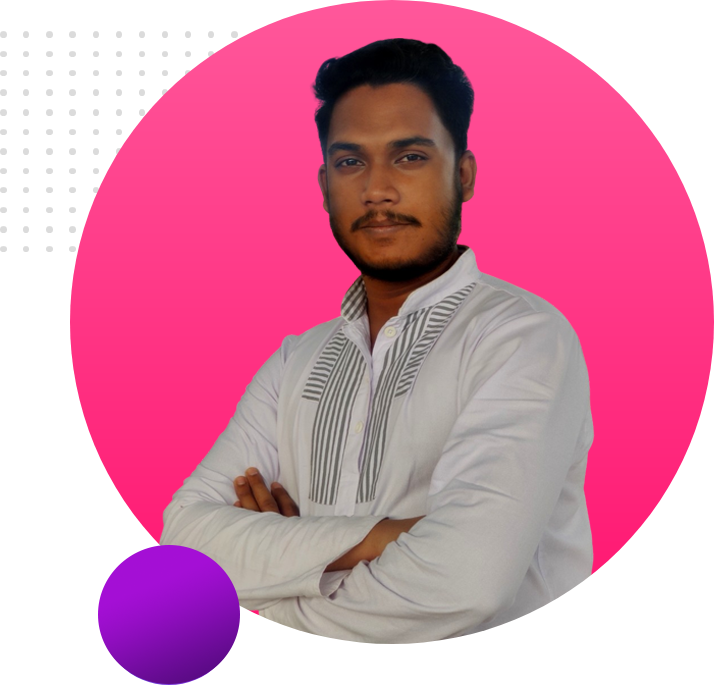
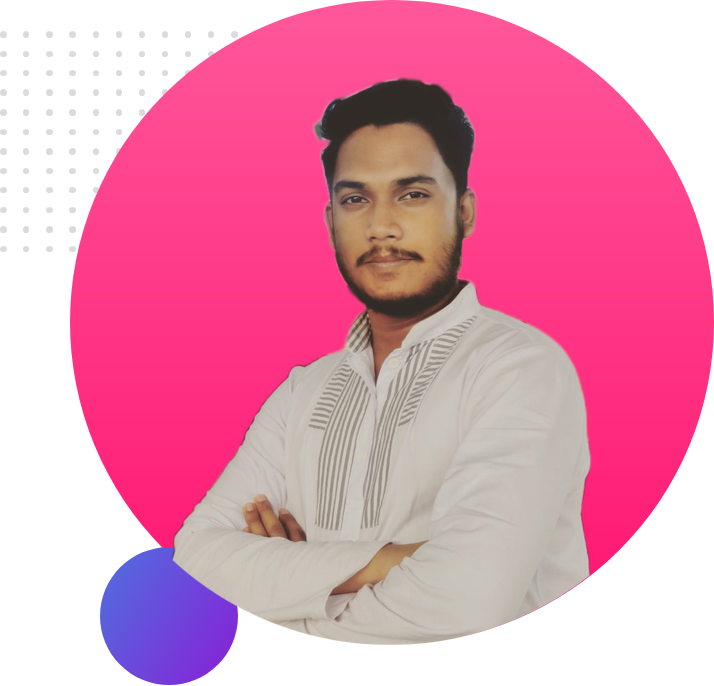
Added all the html and css style

Changed region(s): [[0.1232, 0.0306, 0.8319, 1.0]]

diff --git a/indrx.html b/indrx.html
@@ -6,11 +6,48 @@
     <meta name="viewport" content="width=device-width, initial-scale=1.0">
     <title>My Portfolio</title>
     <link rel="stylesheet" href="style.css">
-    v<link href="https://fonts.googleapis.com/css2?family=Poppins:wght@400;600;700;800&display=swap" rel="stylesheet">
+    <link href="https://fonts.googleapis.com/css2?family=Poppins:wght@400;600;700;800&display=swap" rel="stylesheet">
 </head>
 <body>
-
-
+    <section class="top-banner">
+        <div class="half-width">
+            <h1>Welcome To</h1>
+            <h1><span class="orange-highlight">Mahidul's</span> Website</h1>
+            <h3>Professional Web developer</h3>
+            <p>I'm a Full-stack web developer. Expert in css based framwork like Bootstrap, Tailwind, Foundation. Also expert in js front-end framework React js, Angular Js. For backed expert in node js, express js, next js. I can build REST API with Lumen and also know Laravel and PHP. I can play the role as front-end or backend or Full-stack.</p>
+            <a class="link-button" target="_blank" href="https://www.linkedin.com/in/mmbmahidul/">HIRE ME</a>
+        </div>
+        <div class="half-width">
+            <img class="myimg" src="img/my-bg.png" alt="">
+        </div>
+    </section>
+    <section class="ambition-banner">
+        <div class="half-width">
+            <img class="myimg" src="img/my-bg2.png" alt="">
+        </div>
+        <div class="half-width text2">
+            <h2>Ambition</h2>
+            <h3>Become a Professional Web Dev</h3>
+            <p>I have been working on some personal projects so far.  I'm looking for some opportunity where I can help the team by using my experience and also learn and developet my skills to this area as well</p>
+            <a class="link-button" target="_blank" href="#">DOWNLOAD RESUME</a>
+        </div>
+    </section>
+    <section class="experience-area">
+        <h2>Experiences</h2>
+        <div id="front-end" class="half-width single-xp">
+            <h2>Front-end Web Dev</h2>
+            <h3 class="orange-highlight">2021-Present | Junior Level Developer</h3>
+            <p>I'm expert in html5, CSS3, js, jquery. I know CSS based framework Bootstrap, Tailwind, Foundation. Also expert in few js front-end framework like React js, Angular js, Vue js. I'm also pretty good in Laravel framework. </p>
+        </div>
+        <div id="back-end" class="half-width single-xp">
+            <h2>Full-stack Web Dev</h2>
+            <h3 class="orange-highlight">2021-Present | Junior Level Developer</h3>
+            <p>I'm expert in few front-end framework. Also I am expert in php and node js for the backend. I can build REST API with Lumen. Also know Laravel & React Js scaffolding. Also pretty good in next js and espress js. </p>
+        </div>
+    </section>
+    <footer>
+        <p>© Mahidul 2022, all rights reserved</p>
+    </footer>
     <script src="app.js"></script>
 </body>
 </html>

diff --git a/style.css b/style.css
@@ -1,3 +1,87 @@
 body{
     font-family: 'Poppins', sans-serif;
+    margin: 0;
+}
+h1{
+    font-size: 50px;
+}
+h2{
+    font-size: 40px;
+}
+p{
+    color: dimgray;
+}
+section{
+    height: 500px;
+}
+.orange-highlight{
+    color: orange;
+}
+.half-width{
+    width: 40%;
+    float: left;
+    margin-left: 5%;
+    padding: 2%;
+}
+.half-width img{
+    width: 100%;
+}
+.top-banner{
+    background-image: url("img/top-banner.png");
+    background-repeat: no-repeat;
+    margin-bottom: 300px;
+}
+.link-button{
+    text-decoration: none;
+    background: linear-gradient(45deg,lightsalmon,tomato);
+    color: #fff;
+    font-weight: 600;
+    padding: 10px 20px;
+    border-radius: 5px;
+}
+.ambition-banner{
+    background-image: url("img/dream-bg.png");
+    background-position: right;
+    background-repeat: no-repeat;
+    margin-bottom: 200px;
+}
+.text2{
+    margin-left:-1px;
+}
+.myimg{
+    transition: all 1s;
+    animation:  zoomimg;
+    animation-duration: 2s;
+}
+@keyframes zoomimg{
+	from{transform: scale(0.5);}
+	to{transform: scale(1);}
+}
+.single-xp{
+    box-shadow: 10px 10px 40px grey;
+    border-radius: 10px;
+    width: 575px;
+    height: 60%;
+    background-color: #fff;
+}
+.experience-area{
+    background-image: url(img/exp-bg.png);
+    background-repeat: no-repeat;
+    background-position: left;
+}
+#front-end{
+    border-left: 7px solid;
+    border-image: linear-gradient(180deg, lightsalmon,tomato);
+    border-image-slice: 1;
+}
+#back-end{
+    border-left: 7px solid;
+    border-image: linear-gradient(180deg, blue,cyan);
+    border-image-slice: 1;
+}
+footer{
+    margin-top: 60px;
+    font-size: 12px;
+    color: dimgray;
+    text-align: center;
 }
